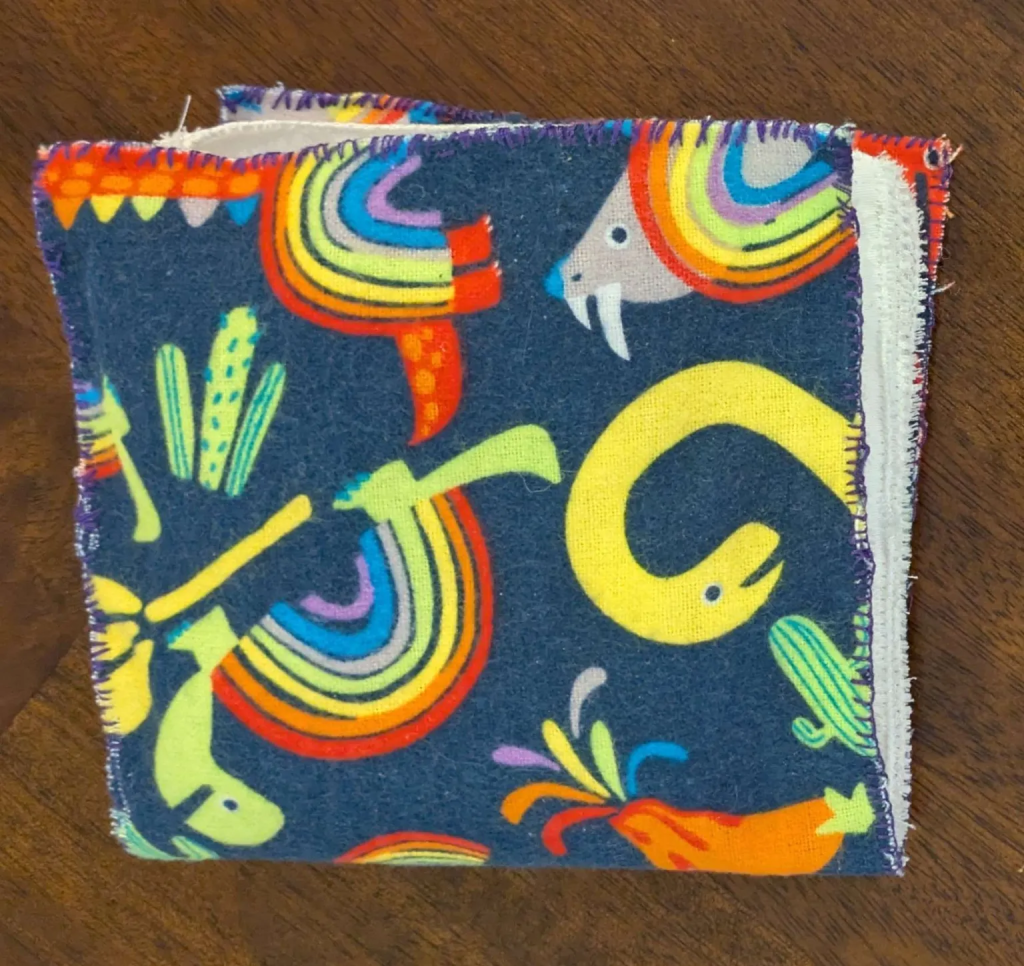
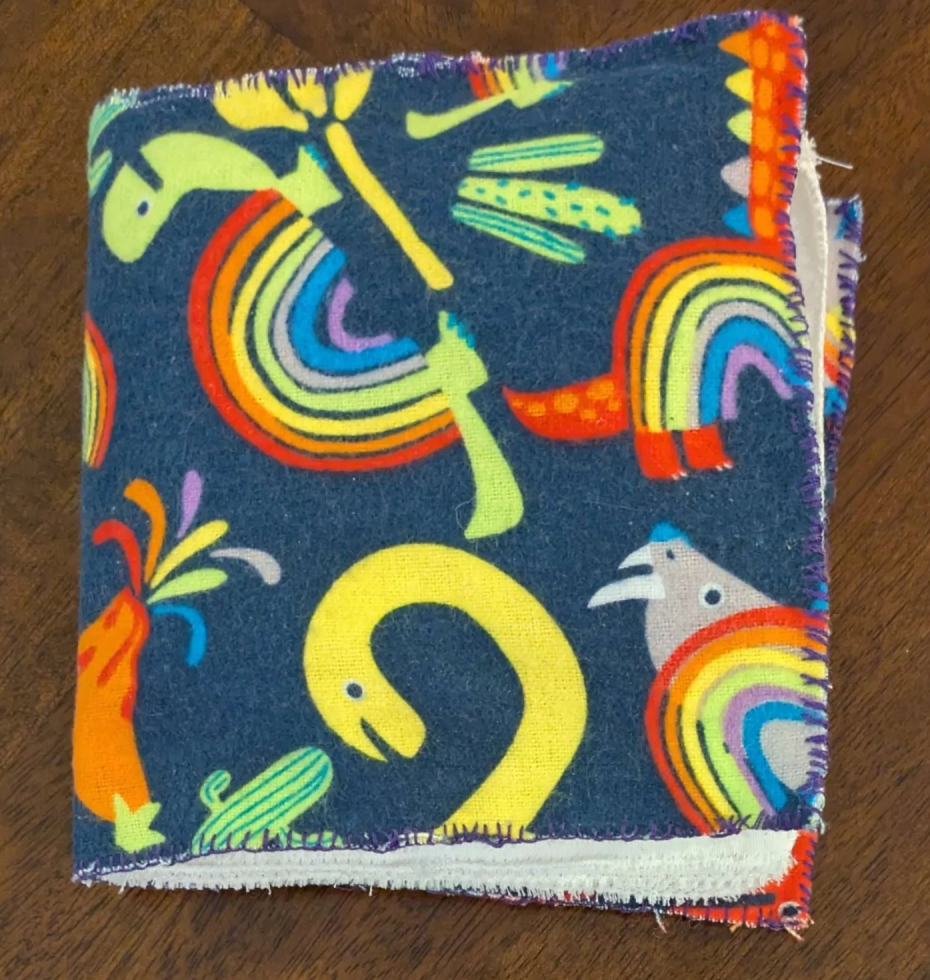
Set fixed viewport size for more responsive design

diff --git a/games/2/story-creator.html b/games/2/story-creator.html
@@ -1,8 +1,8 @@
 <!DOCTYPE HTML>
 <html lang="en">
   <head>
-    <meta name="viewport" content="width=device-width", initial-scale="1">
     <meta charset="UTF-8">
+    <meta name="viewport" content="width=1850, height=944">
     <link rel="stylesheet" href="style.css">
     <title>Story Creator</title>
   </head>

diff --git a/games/3/rainy-day-totoro.html b/games/3/rainy-day-totoro.html
@@ -2,6 +2,7 @@
 <html lang="en">
   <head>
     <meta charset="UTF-8">
+    <meta name="viewport" content="width=1850, height=944">
     <link rel="stylesheet" href="style.css">
     <title>Rainy Day Totoro</title>
   </head>

diff --git a/index.html b/index.html
@@ -2,6 +2,7 @@
 <html lang="en">
   <head>
     <meta charset="UTF-8">
+    <meta name="viewport" content="width=1850, height=944">
     <link rel="stylesheet" href="style.css">
     <title>Christmas Time!!</title>
   </head>

diff --git a/games/1/star-catcher.html b/games/1/star-catcher.html
@@ -2,6 +2,7 @@
 <html lang="en">
   <head>
     <meta charset="UTF-8">
+    <meta name="viewport" content="width=1850, height=944">
     <link rel="stylesheet" href="style.css">
     <title>Star Catcher</title>
   </head>
